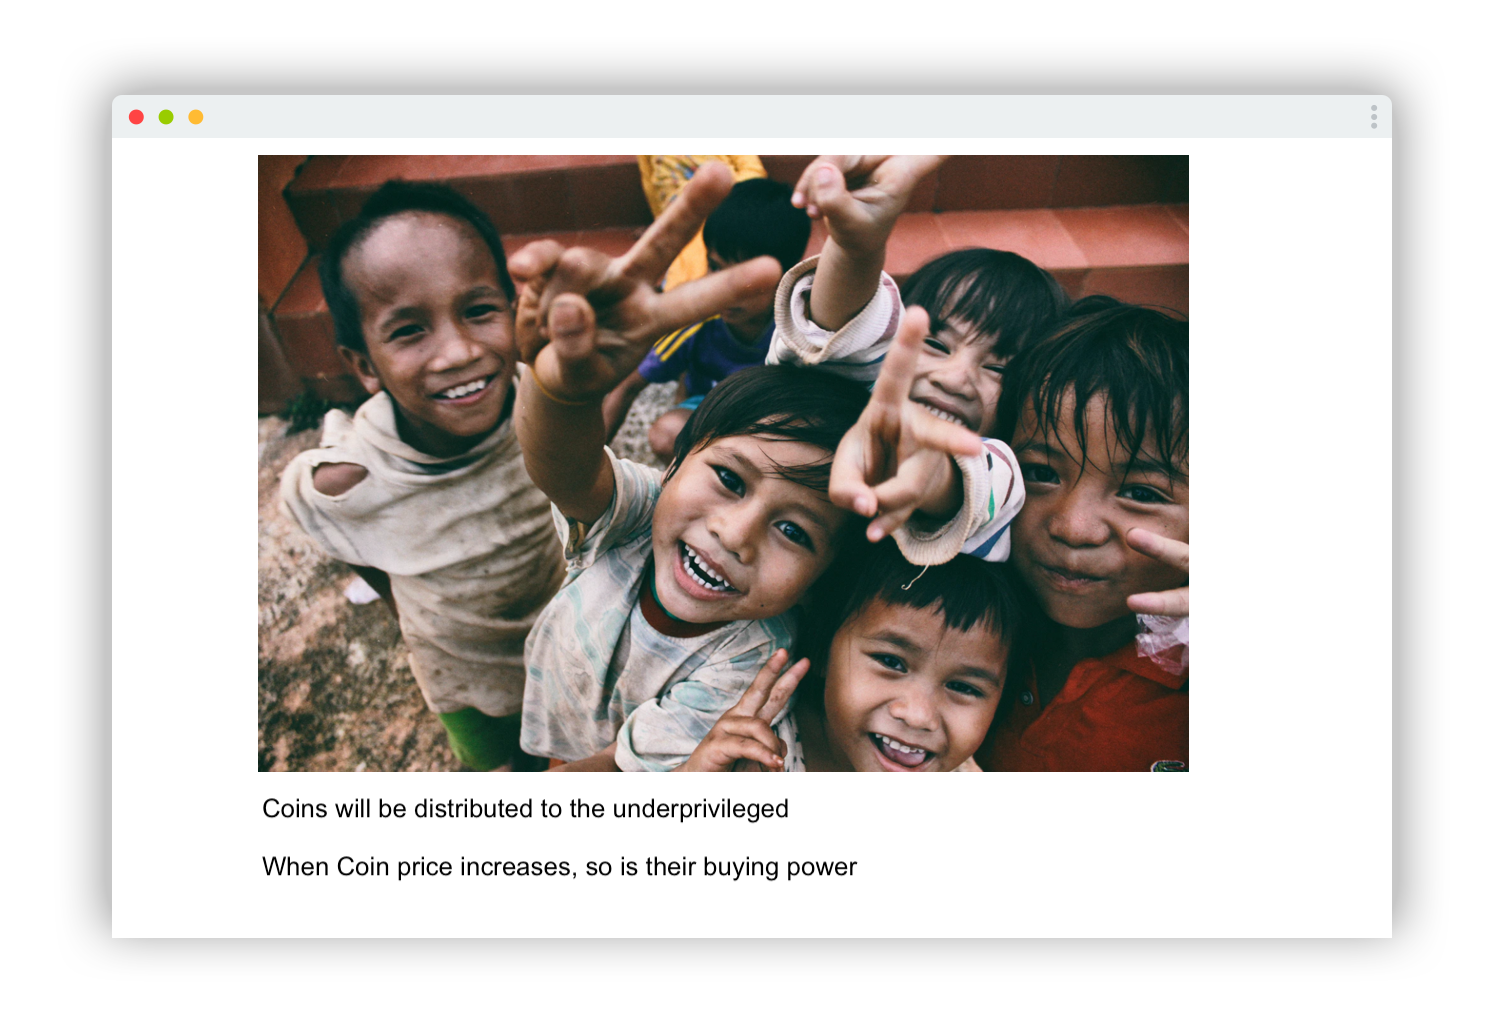
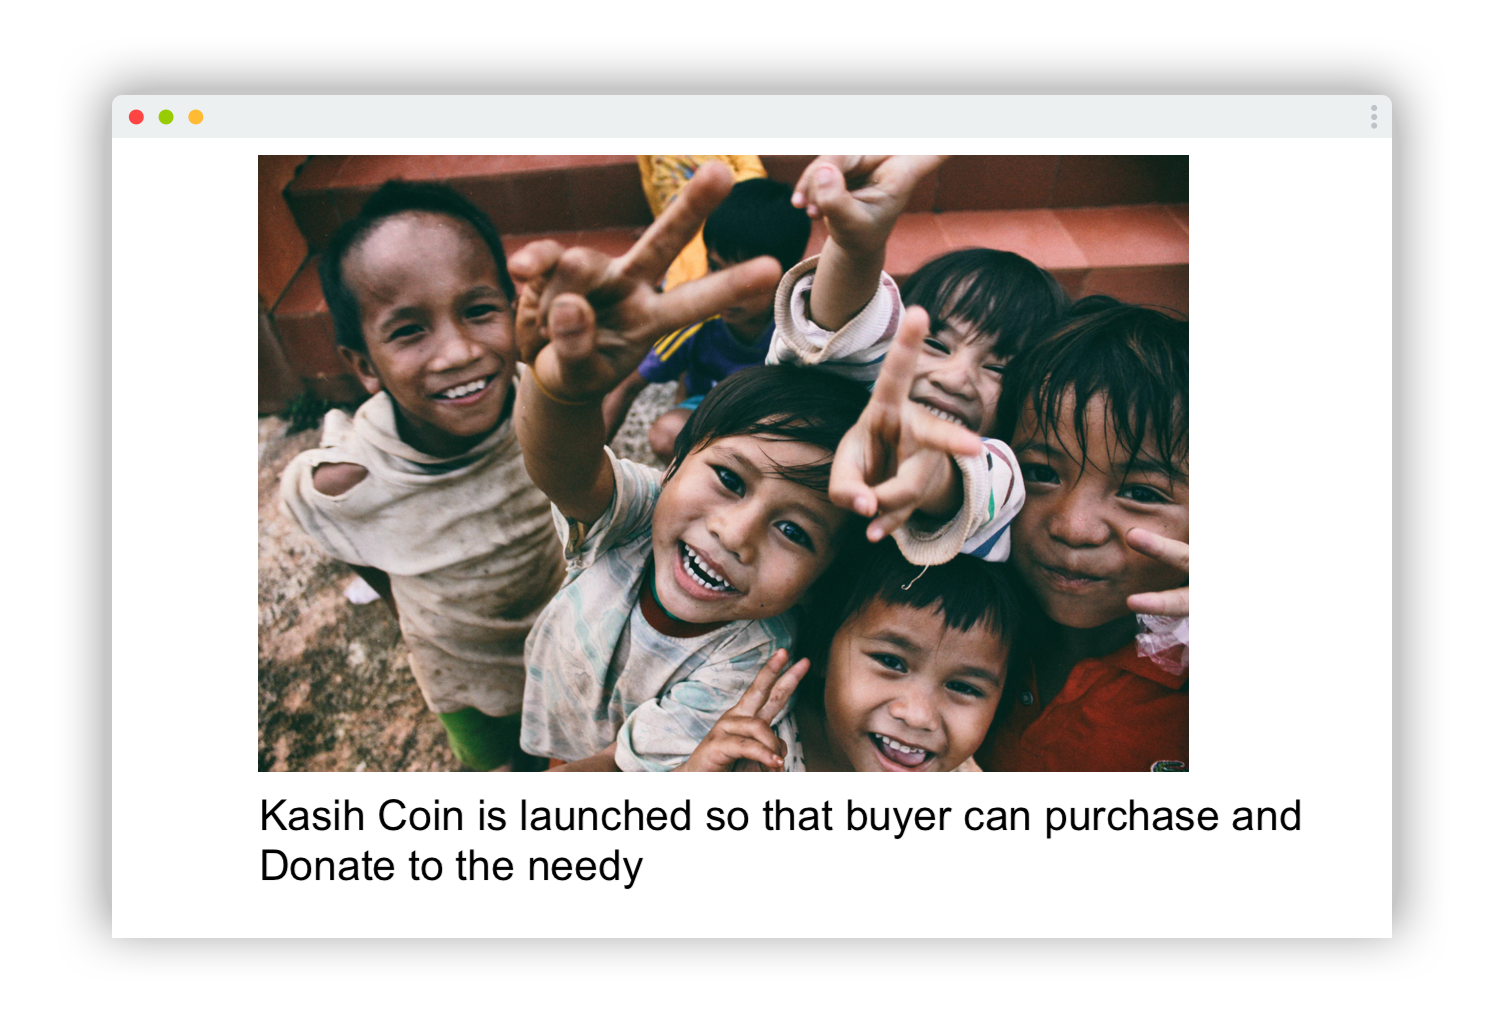
Updated Campaign to remove donation

Changed region(s): [[0.1562, 0.7613, 0.875, 0.8831]]

diff --git a/index.html b/index.html
@@ -78,8 +78,8 @@
                                 </div>
                         </h1>
 
-                        <p>Kasih Coin was created to help the underprivileged. Kasih Coin will be donated to organization, or needy person. By purchasing, the value of the coin owned by the underprivileged increases. In turn, the needy is able to purchase more with the coin received.</p> 
-                        <p>There are 1 million coin created. 10,000 coin will be given to each person or organization. You can purchase the coin from them, or by adding money to our liquidity. No more coin will ever be created. The value increases over time with it is scares. </p>                          
+                        <p>Kasih Coin was created with underprivileged in mind. You can purchase Kasih Coin and donate to organization, or needy person. By purchasing, the value of the coin owned by the underprivileged increases. In turn, the needy is able to own a piece of valuable coin</p> 
+                        <p>There are 1 million coin created. No more coin will ever be created. The value increases over time with it is scares. </p>                          
 
                         <p>You can purchase Kasih Coin with these 2 simple step </p>
                         <p>Step 1. Purchase USDT with MYR at <a href="https://p2p.binance.com/en/quickTrade/buy/USDT/MYR" target="_blank">from Binance</a> </p>
@@ -89,6 +89,8 @@
                         <br>Smart Contract: <a href="https://bscscan.com/address/0x0d4fa74867dEA48D96F09bc069c268711b8EAaB0" target="_blank">https://bscscan.com/address/0x0d4fa74867dEA48D96F09bc069c268711b8EAaB0</a>
                         <br>Live Price: <a href="https://poocoin.app/tokens/0x0d4fa74867dea48d96f09bc069c268711b8eaab0" target="_blank">https://poocoin.app/tokens/0x0d4fa74867dea48d96f09bc069c268711b8eaab0</a>
                         <br>Source Code: <a href="https://bscscan.com/bytecode-decompiler?a=0x0d4fa74867dEA48D96F09bc069c268711b8EAaB0" target="_blank">https://bscscan.com/bytecode-decompiler?a=0x0d4fa74867dEA48D96F09bc069c268711b8EAaB0</a></p>
+                        <p>Official Website: <a href="https://kasihcoin.github.io" target="_blank">https://kasihcoin.github.io</a>
+                        <p>Kasih Coin Telegram: <a href="https:t.me/kasihcoin" target="_blank">https://https:t.me/kasihcoin</a>
 
                         <div class="custom-btn-group mt-4">
                           <a href="#project" class="btn mr-lg-2 custom-btn"><i class='uil uil-file-alt'></i>Mission</a>
